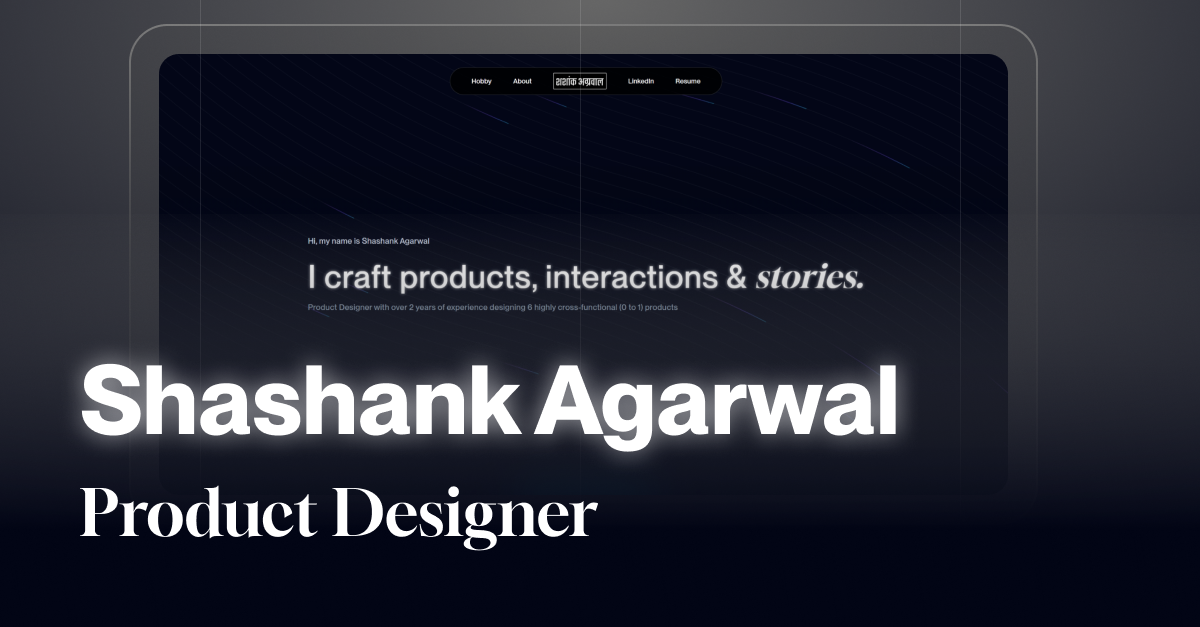
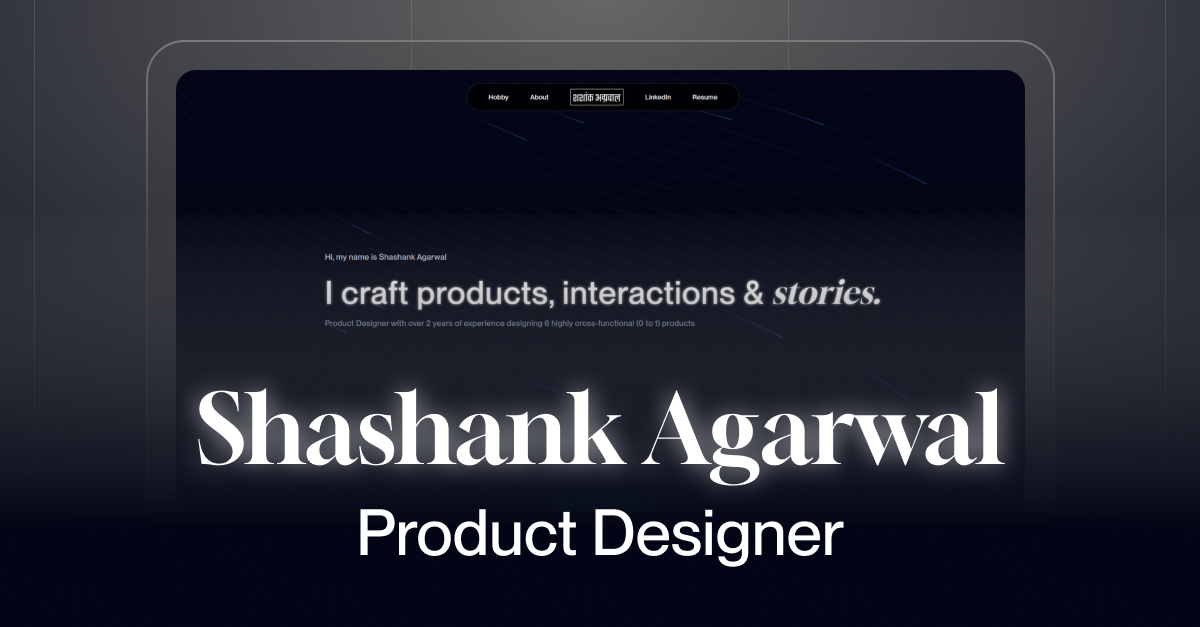
meta image added

Changed region(s): [[0.0617, 0.5455, 0.8633, 0.9091], [0.0925, 0.0303, 0.8942, 0.5455], [0.2467, 0.3636, 0.74, 0.5455]]

diff --git a/src/app/layout.tsx b/src/app/layout.tsx
@@ -1,25 +1,28 @@
-import type { Metadata } from "next";
+import type { Metadata as NextMetadata } from "next";
 import { Work_Sans } from "next/font/google";
 import "./globals.css";
-import Head from 'next/head';
 
-// Import the PNG file
-const MetaDataThumbnail = require('@/app/Assets/Images/MetaDataThumbnail.png') as string;
-
+// Extend the Metadata type to include the image property
+interface Metadata extends NextMetadata {
+  image?: {
+    url: string;
+    alt: string;
+  };
+}
 
 const workSans = Work_Sans({ subsets: ["latin"] });
 
-// Define a custom type for metadata with image
-interface CustomMetadata extends Metadata {
-  image: string; // Assuming MetaDataThumbnail is a local path
-}
+// Define the relative path to your image
+const imagePath = "/Assets/Images/MetaDataThumbnail.png";
 
-// Define the metadata
-export const metadata: CustomMetadata = {
+export const metadata: Metadata = {
   title: "Shashank Agarwal | Product Designer and Developer",
-  description: "A UX portfolio website of Shashank Agarwal. Designed & Developed by Shashank Agarwal using NextJs, Typescript and Framer Motion",
-  // Provide the local path to the imported PNG file
-  image: MetaDataThumbnail as string, // Type assertion
+  description: "A UX portfolio website of Shashank Agarwal.",
+  // Add image metadata with the relative path
+  image: {
+    url: imagePath,
+    alt: "Description of your image",
+  },
 };
 
 export default function RootLayout({

diff --git a/src/app/(content)/layout.tsx b/src/app/(content)/layout.tsx
@@ -4,14 +4,11 @@ import '../globals.css';
 // import { Header, Footer } from '@/components/Layout'
 // import 'react-toastify/dist/ReactToastify.css'
 
-import MetaDataThumbnail from '@/app/Assets/Images/MetaDataThumbnail.png';
-
 import Head from 'next/head';
 
 export const metadata = {
   description: 'A UX portfolio website of Shashank Agarwal',
   title: 'Shashank Agarwal | Product Designer and Developer',
-  image: MetaDataThumbnail,
 
 }
 
